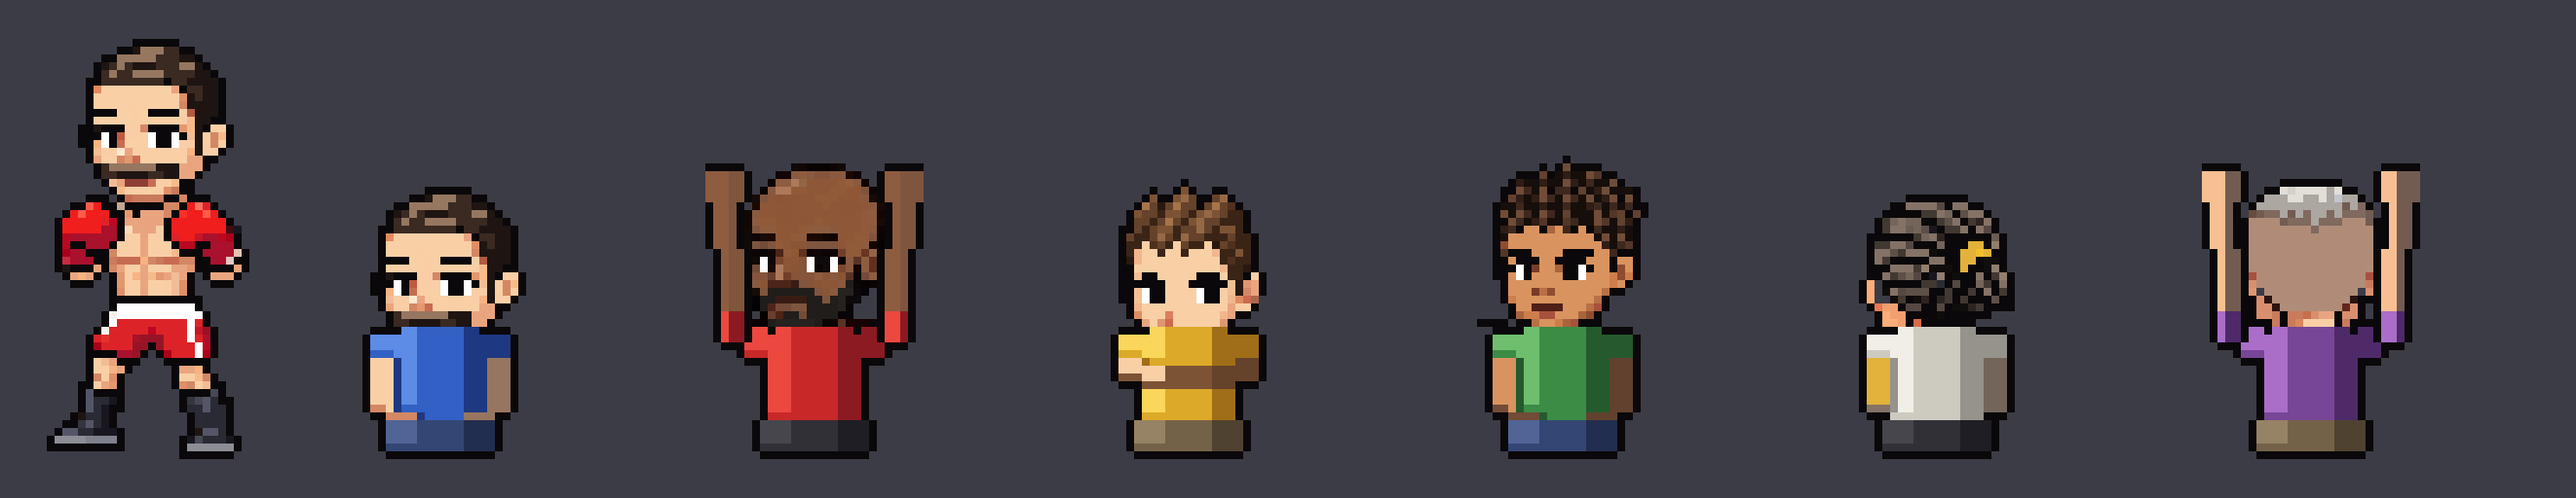
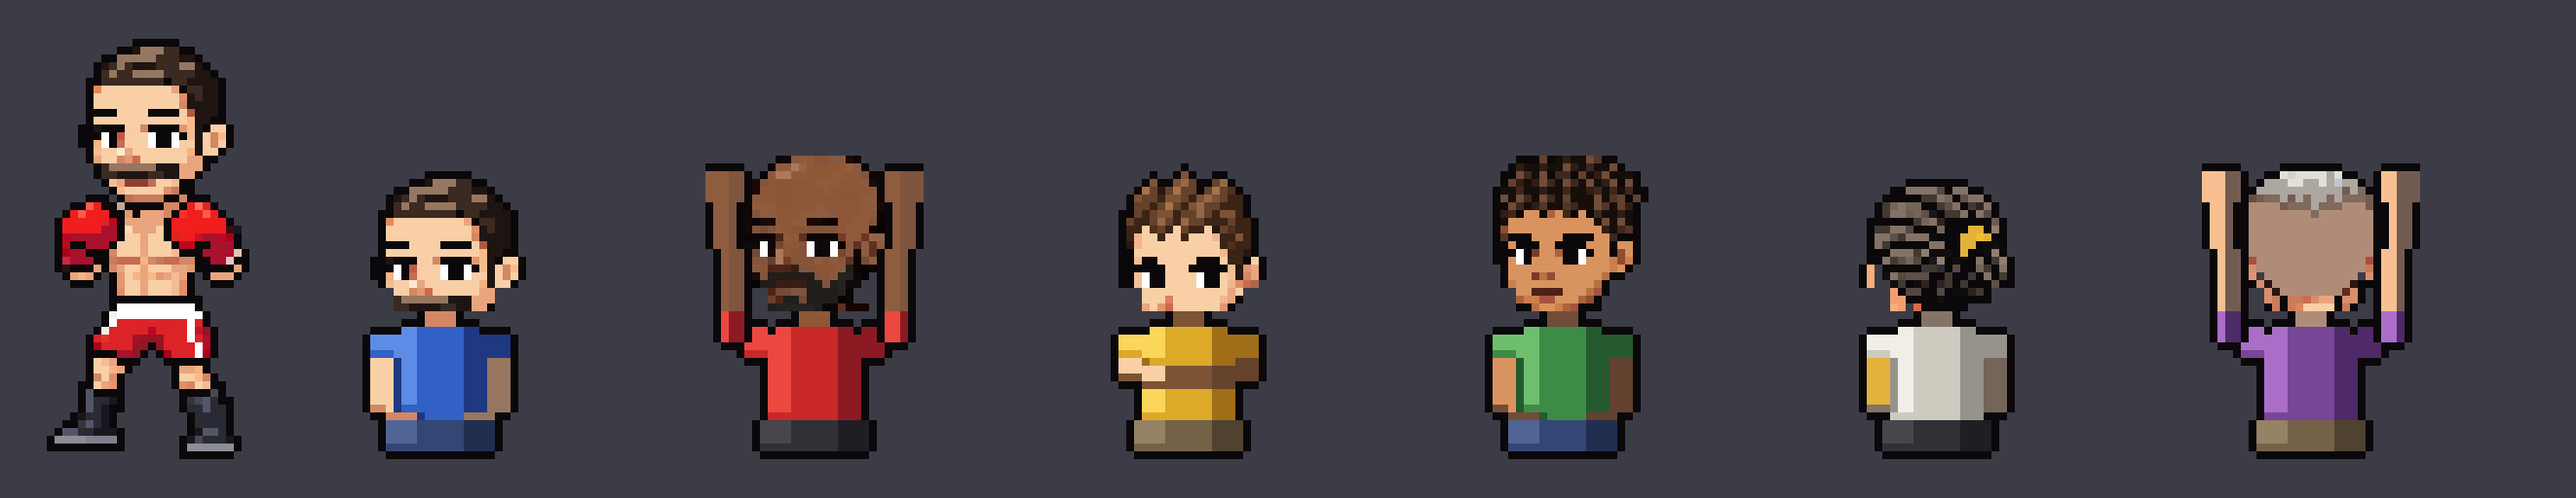
Fãs: vê-se o pescoço (o queixo já não entra na camisola)
Claude-Session: https://claude.ai/code/session_01KDZthyf9r1UXjaFXmiFsU3

diff --git a/arte/cenario/fas/fas.py b/arte/cenario/fas/fas.py
@@ -26,6 +26,10 @@ def cabeca(im):
             p = px[x, y]
             X = x - cx + W // 2
             if p[3] and 0 <= X < W and not isred(p): po[X, y - top] = p
+    hh = fim - top + 1                               # tira restos dos ombros que ficam junto ao queixo
+    for y in range(max(0, hh - 3), hh):
+        for X in range(W):
+            if abs(X - W // 2) > 6 and po[X, y][3]: po[X, y] = (0, 0, 0, 0)
     pele = Counter(p[:3] for y in range(top, fim) for x in range(w) for p in [px[x, y]] if isskin(p))
     tons = sorted([c for c, _ in pele.most_common(6)], key=lum, reverse=True)
     rampa = (tons[0], tons[len(tons)//2], tons[-1]) if tons else ((240, 190, 150), (215, 160, 120), (170, 110, 80))
@@ -124,7 +128,7 @@ def fa(fonte, pose, costas, roupa, calca):
     frente, tras = fonte
     head, rampa, hh = cabeca(tras if costas else frente)
     im = corpo(pose, costas, roupa, calca, rampa)
-    im.alpha_composite(head, (0, 22 - hh))                    # a cabeça assenta no pescoço
+    im.alpha_composite(head, (0, 20 - hh))                    # a cabeça fica por cima do pescoço (vê-se o pescoço antes da gola)
     if pose == 'bracos': im.alpha_composite(bracos_no_ar(rampa, roupa))
     return im
 if __name__ == '__main__':
